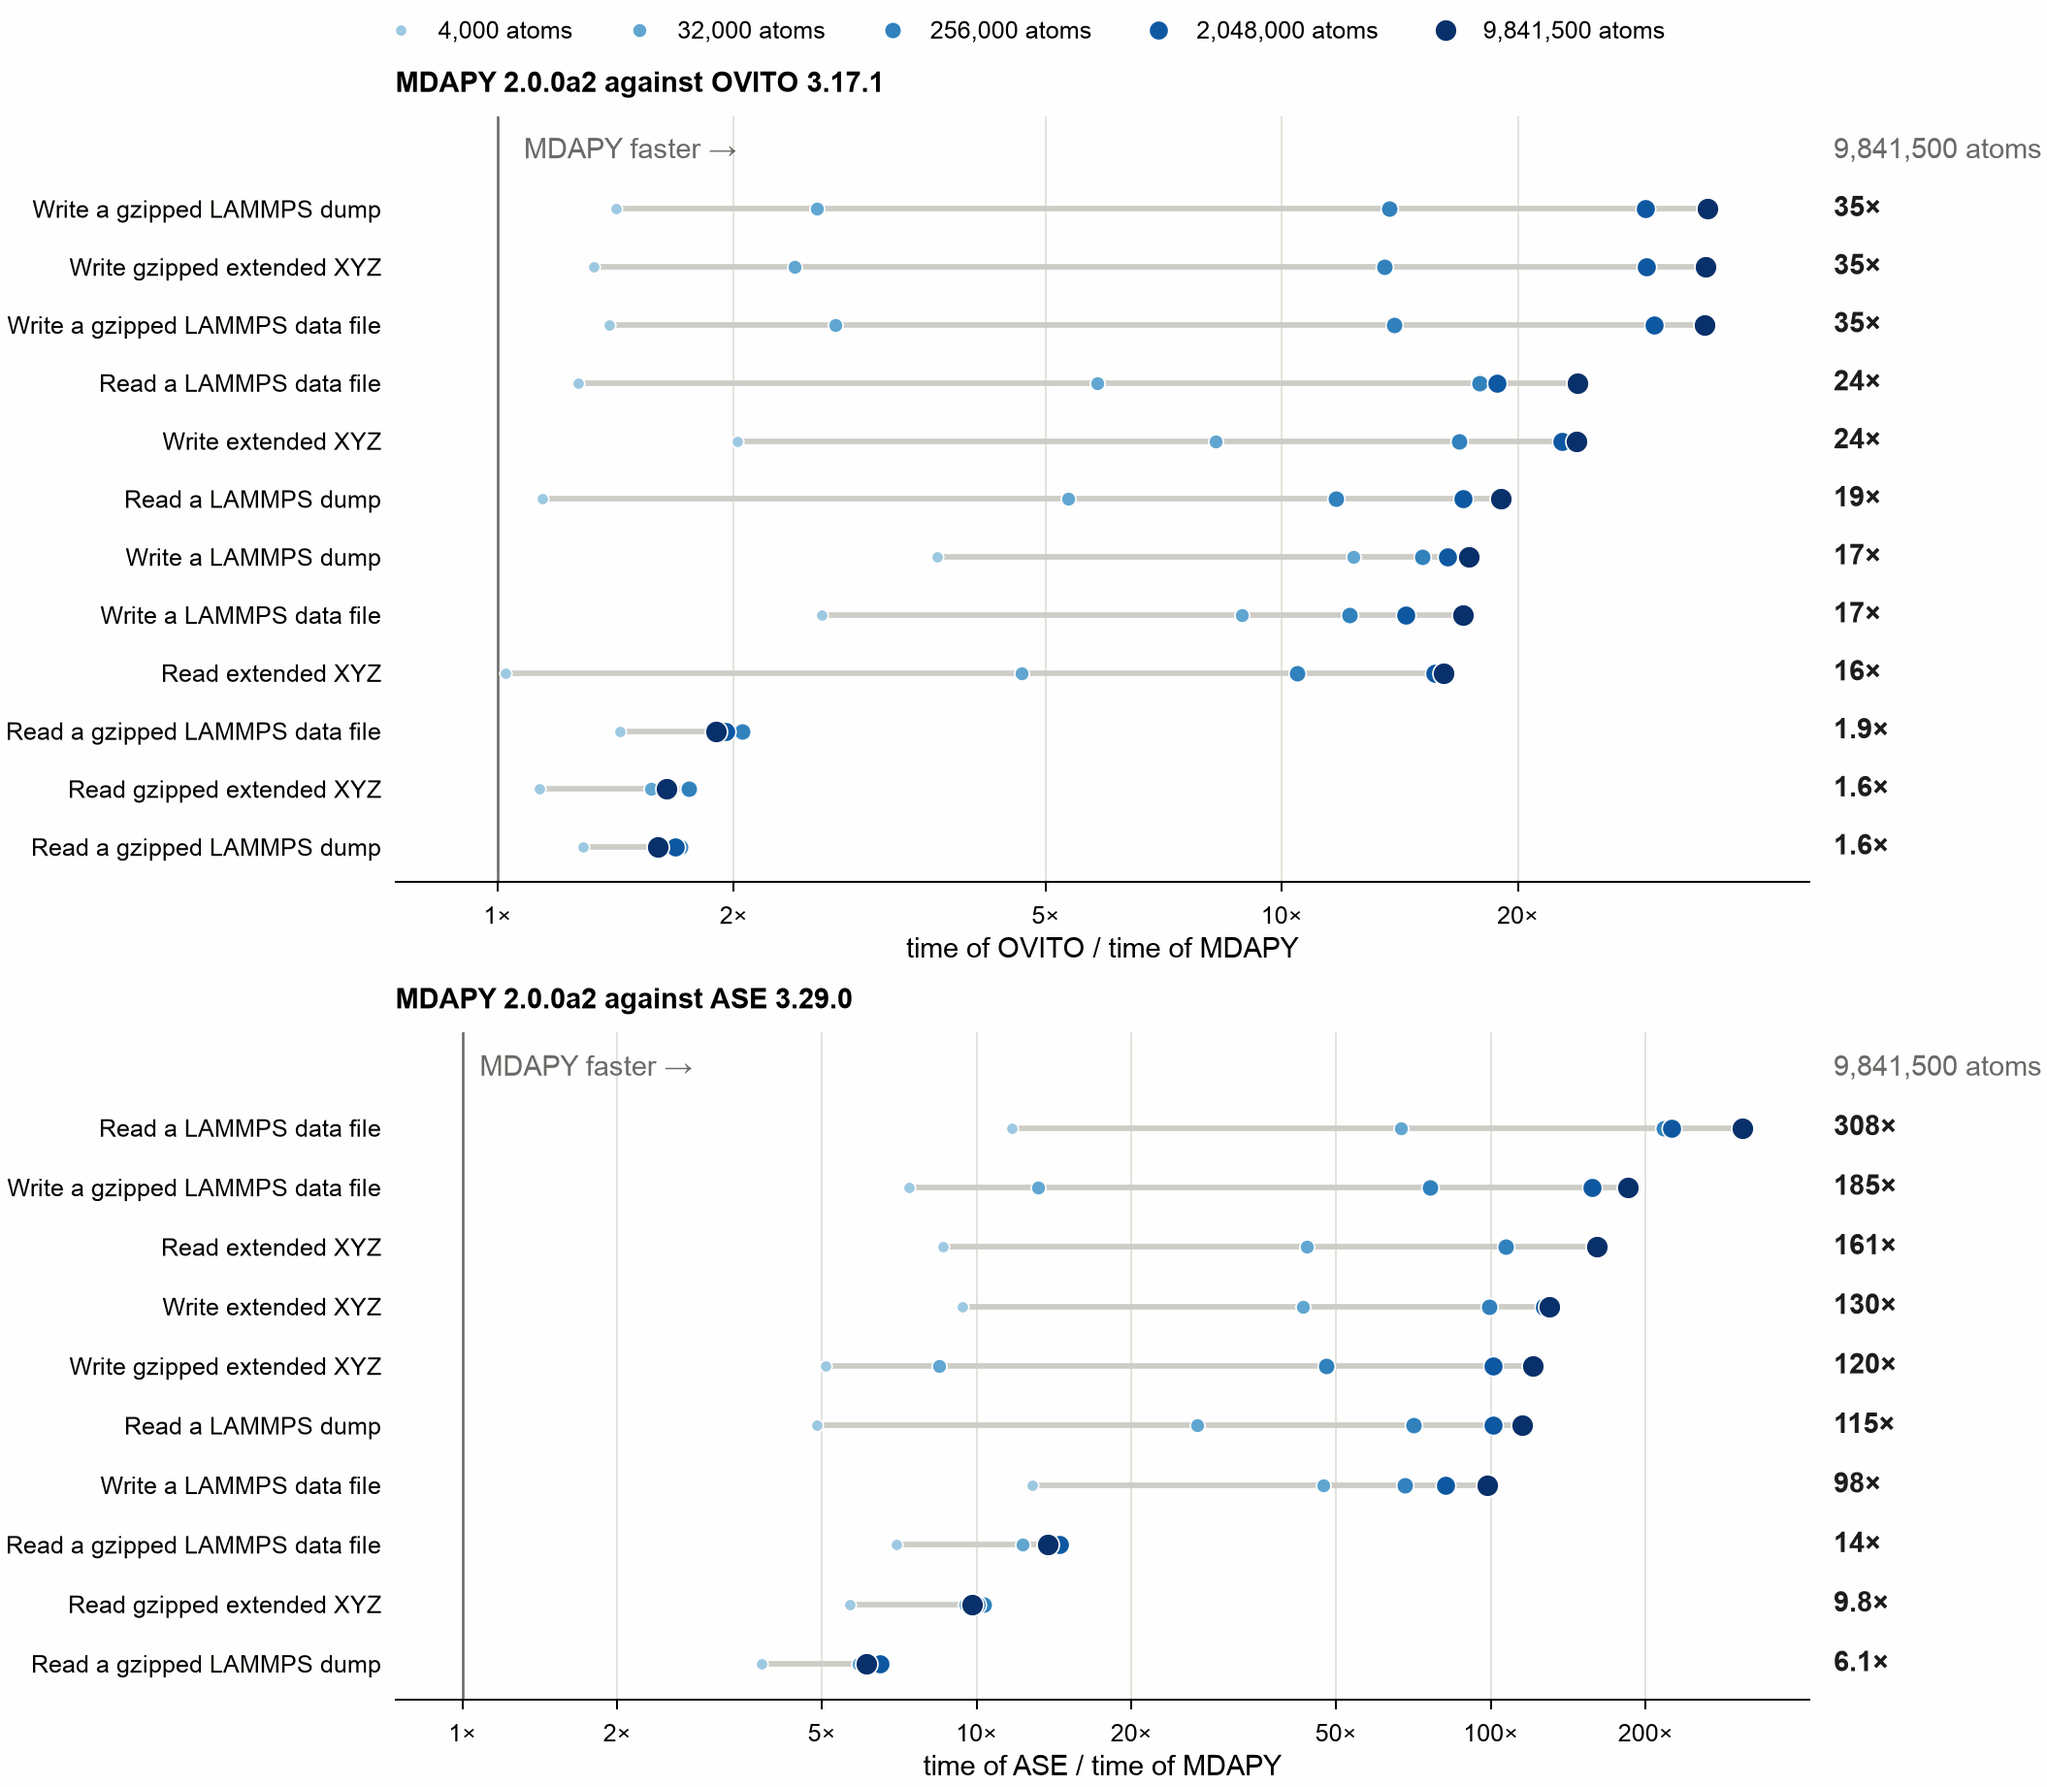
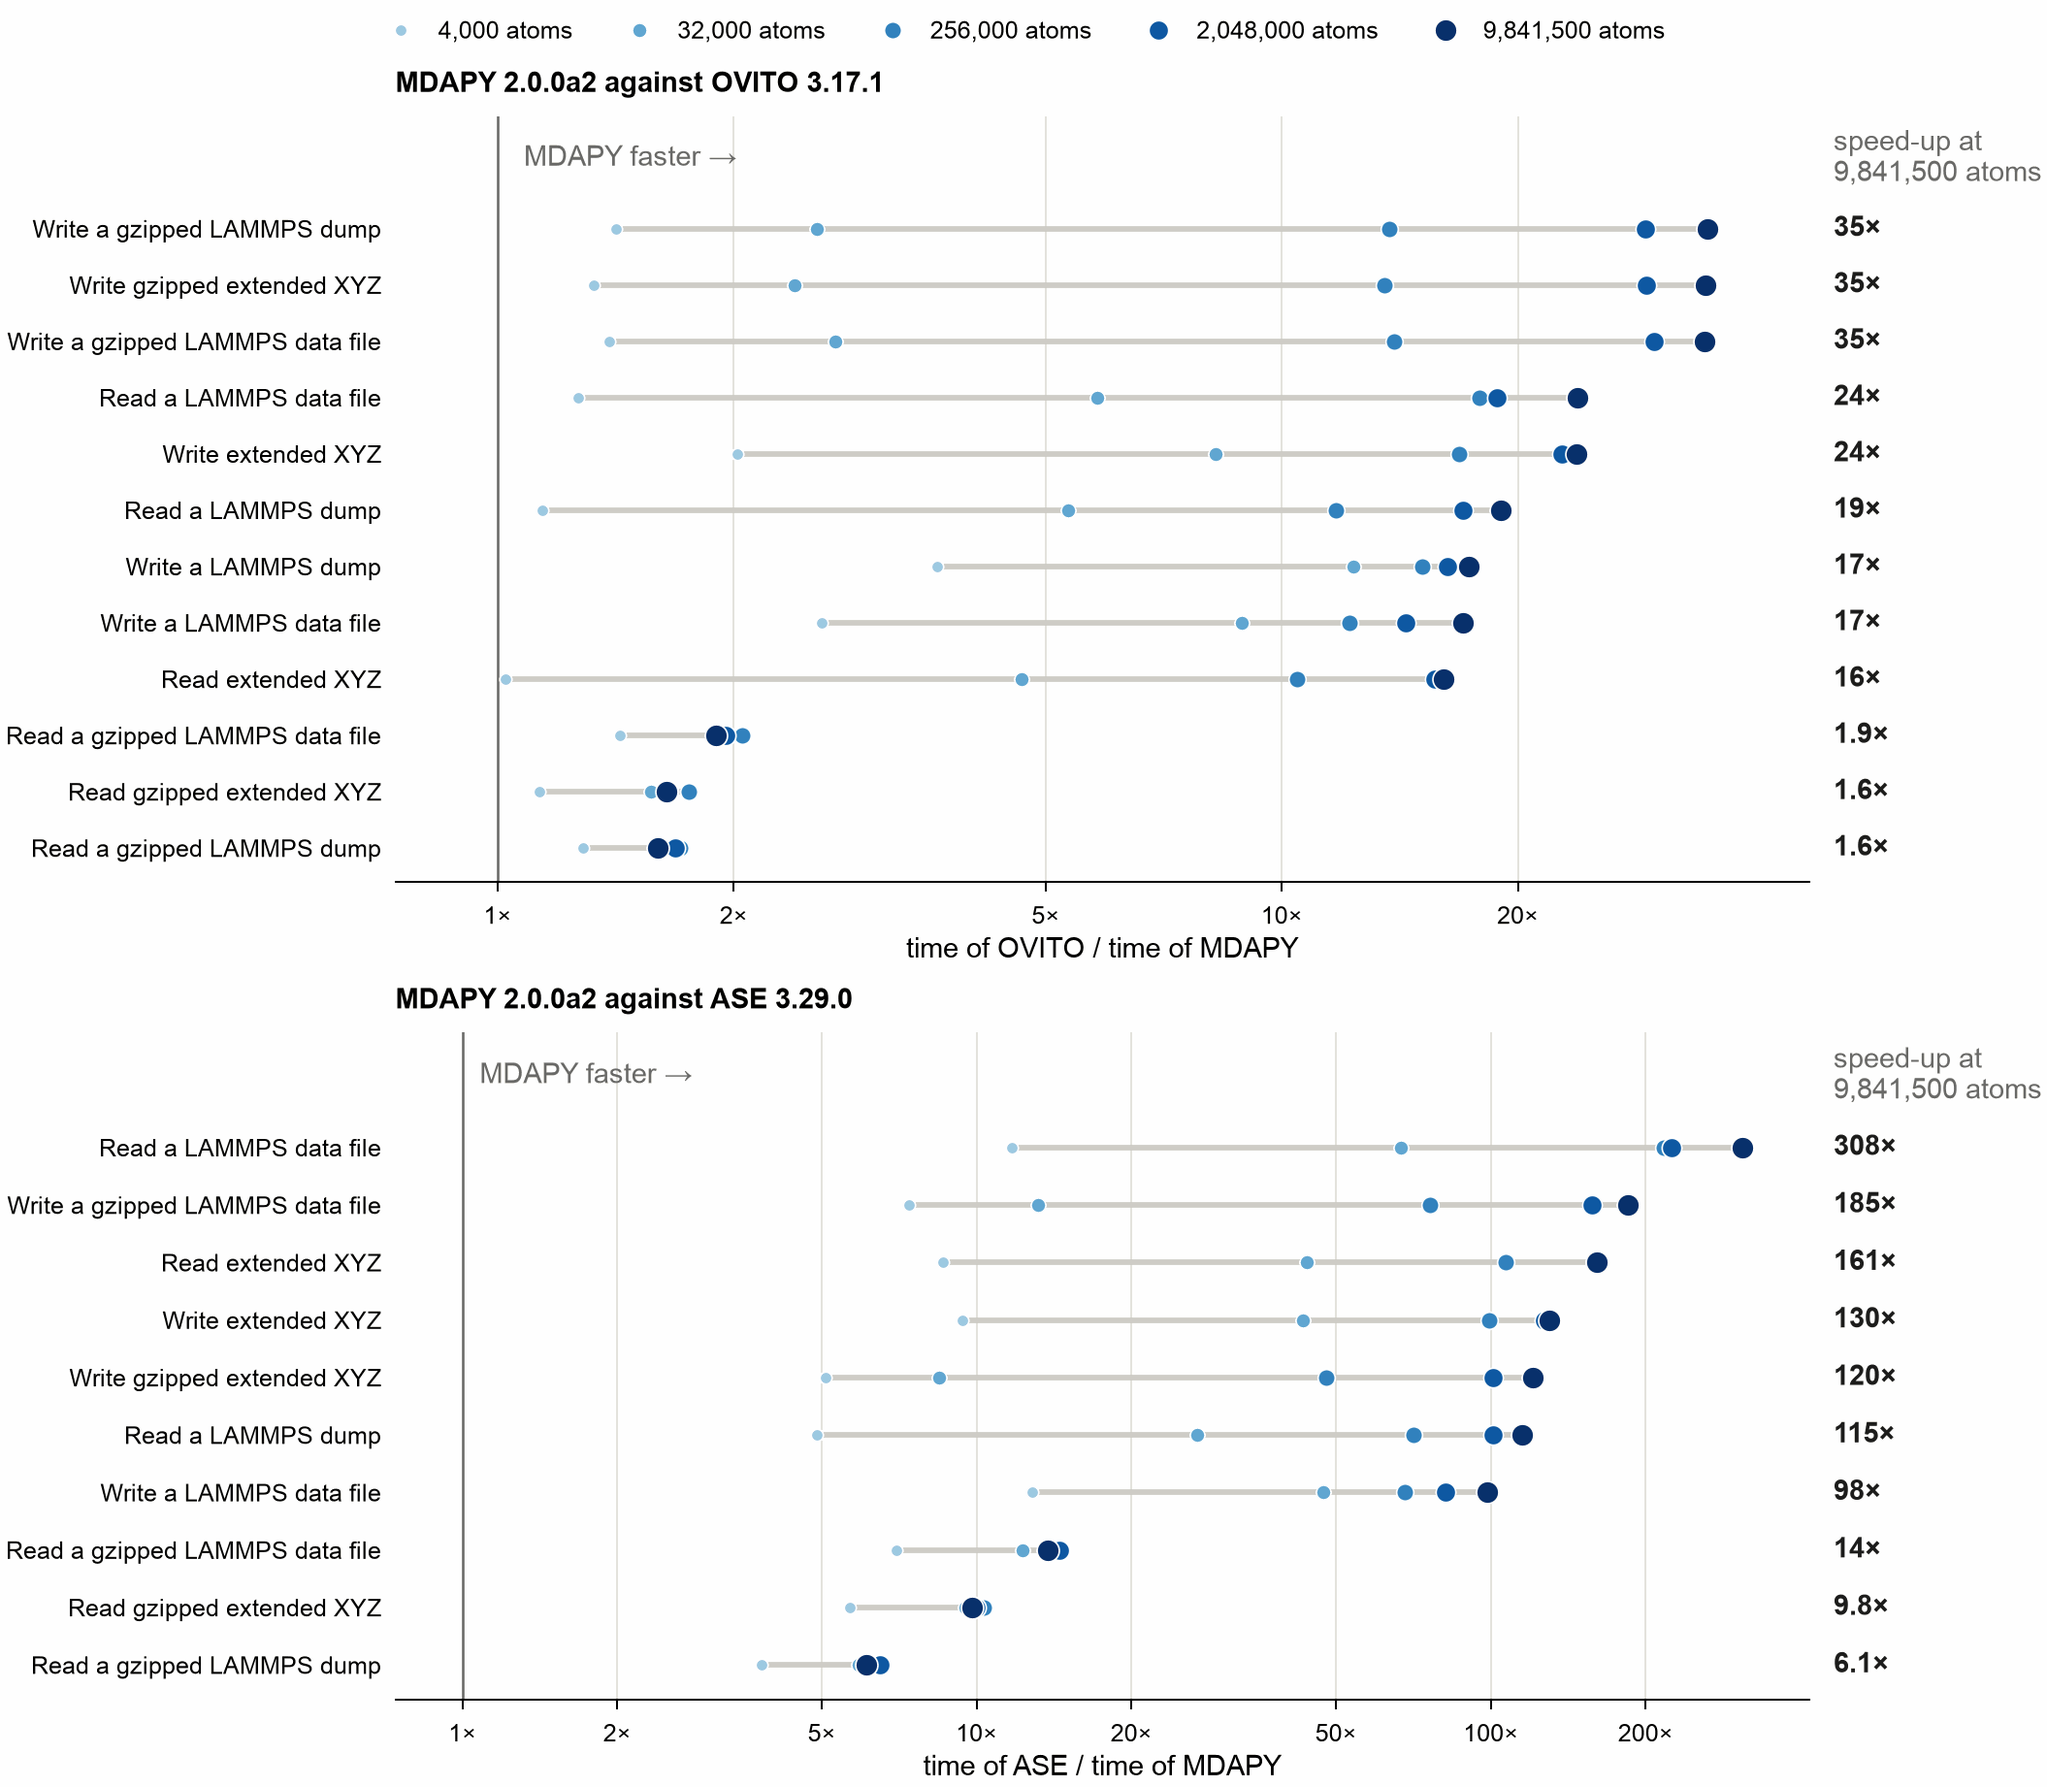
The column of speed-ups beside the benchmark charts names its size

diff --git a/benchmarks/comparison.py b/benchmarks/comparison.py
@@ -1753,7 +1753,7 @@ def plot(entries: list[dict], path: str) -> None:
             high = max(every) * 1.35
             ax.set_xscale("log")
             ax.set_xlim(low, high)
-            ax.set_ylim(len(names) - 0.4, -1.6)
+            ax.set_ylim(len(names) - 0.4, -2.0)
             if min(every) < 1.0:  # where the other program is faster, shaded
                 ax.axvspan(low, 1.0, color="#f1f0ec", linewidth=0, zorder=0)
             ax.axvline(1.0, color=muted, linewidth=0.6, zorder=1)
@@ -1775,8 +1775,8 @@ def plot(entries: list[dict], path: str) -> None:
                         )
                 largest = max(values)
                 text = _times(values[largest])
-                if largest != sizes[-1]:
-                    text += f" at {largest:,d}"
+                if largest != sizes[-1]:  # not run at the largest size
+                    text += f" at {largest:,d} atoms"
                 ax.annotate(
                     text,
                     (1.0, row),
@@ -1789,18 +1789,18 @@ def plot(entries: list[dict], path: str) -> None:
                 )
             other = PROGRAMS[program]
             ax.annotate(
-                f"{sizes[-1]:,d} atoms",
-                (1.0, -1.0),
+                f"speed-up at\n{sizes[-1]:,d} atoms",
+                (1.0, -1.25),
                 xycoords=("axes fraction", "data"),
                 xytext=(6, 0),
                 textcoords="offset points",
                 va="center",
                 color=muted,
             )
-            ax.text(1.08, -1.0, "MDAPY faster →", va="center", ha="left", color=muted)
+            ax.text(1.08, -1.25, "MDAPY faster →", va="center", ha="left", color=muted)
             if min(every) < 1.0:
                 ax.text(
-                    1 / 1.08, -1.0, f"← {other} faster", va="center", ha="right",
+                    1 / 1.08, -1.25, f"← {other} faster", va="center", ha="right",
                     color=muted,
                 )  # fmt: skip
             ticks = [t for t in (0.2, 0.5, 1, 2, 5, 10, 20, 50, 100, 200, 500)]

diff --git a/docs/performance/comparison.md b/docs/performance/comparison.md
@@ -18,7 +18,7 @@ pip, each with 40 threads. [Reading and writing files](files.md) and
 
 *How many times faster MDAPY is: a row for each case, the largest gain on
 top, and a point for each size, larger and darker for more atoms; the number
-on the right is the gain at the largest size. Left of 1×, the other program
+on the right is the speed-up at the largest size. Left of 1×, the other program
 is faster.*
 
 ### What they show

diff --git a/docs/performance/builders.md b/docs/performance/builders.md
@@ -17,7 +17,7 @@ another node, with Intel Xeon Gold 6248, so their times do not compare with thes
 
 *How many times faster MDAPY is: a row for each case, the largest gain on
 top, and a point for each size, larger and darker for more atoms; the number
-on the right is the gain at the largest size.*
+on the right is the speed-up at the largest size.*
 
 ### What they show
 

diff --git a/docs/performance/files.md b/docs/performance/files.md
@@ -18,7 +18,7 @@ from pip. The [analyses](comparison.md) ran on another node, with Intel Xeon Gol
 
 *How many times faster MDAPY is: a row for each case, the largest gain on
 top, and a point for each size, larger and darker for more atoms; the number
-on the right is the gain at the largest size.*
+on the right is the speed-up at the largest size.*
 
 ### What they show
 
